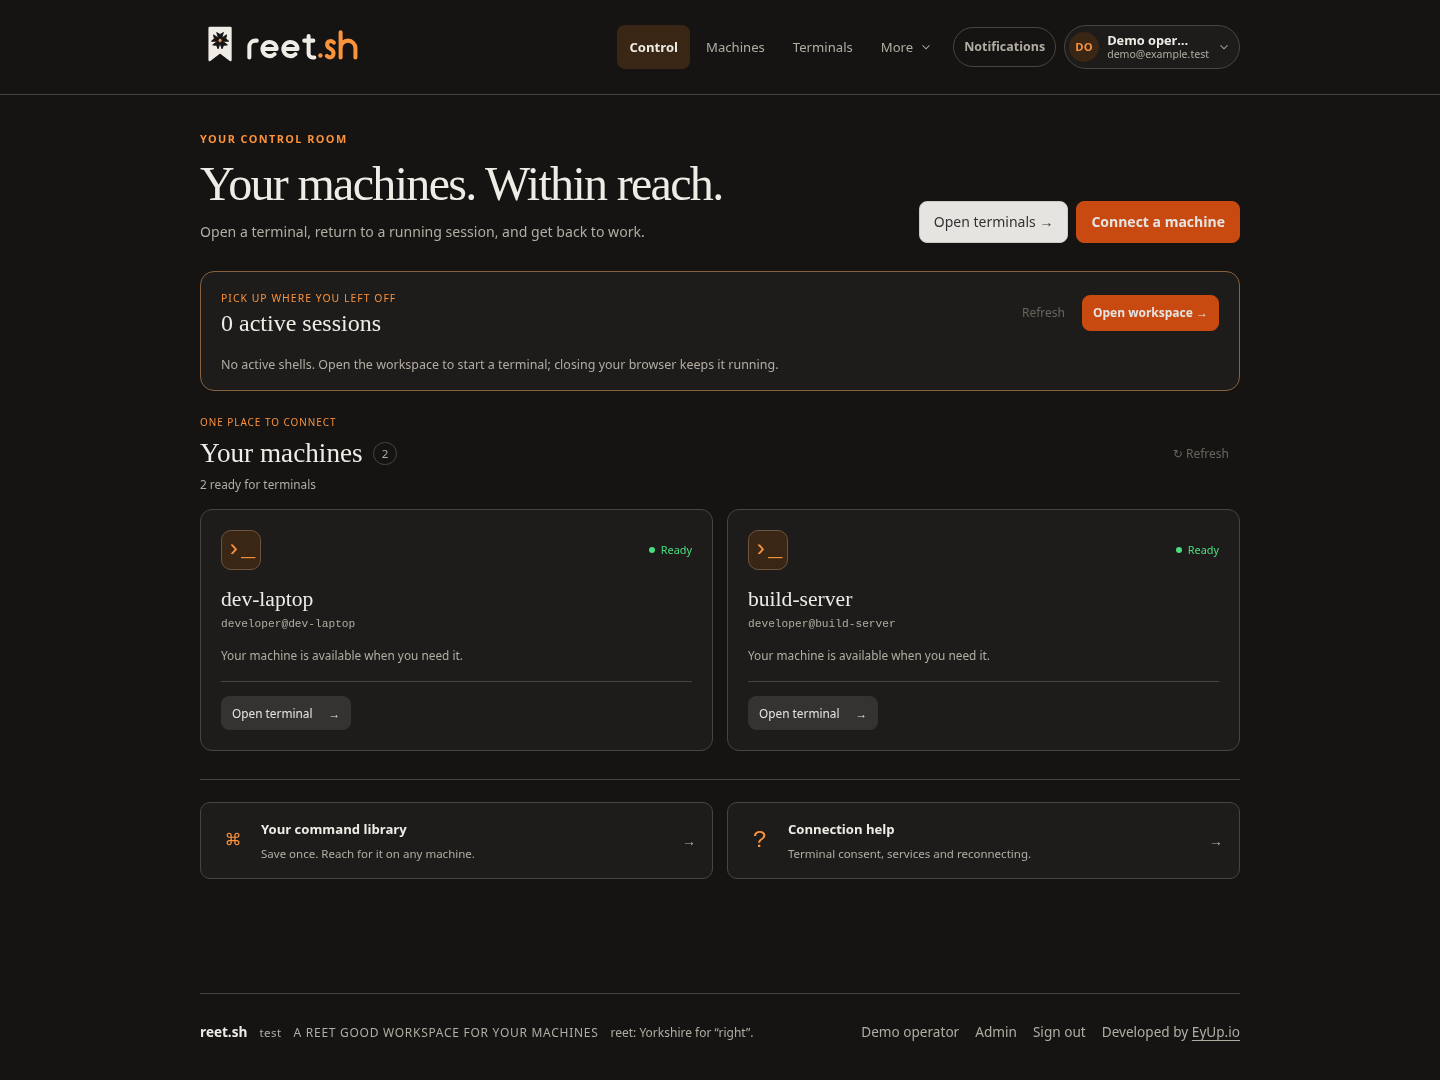
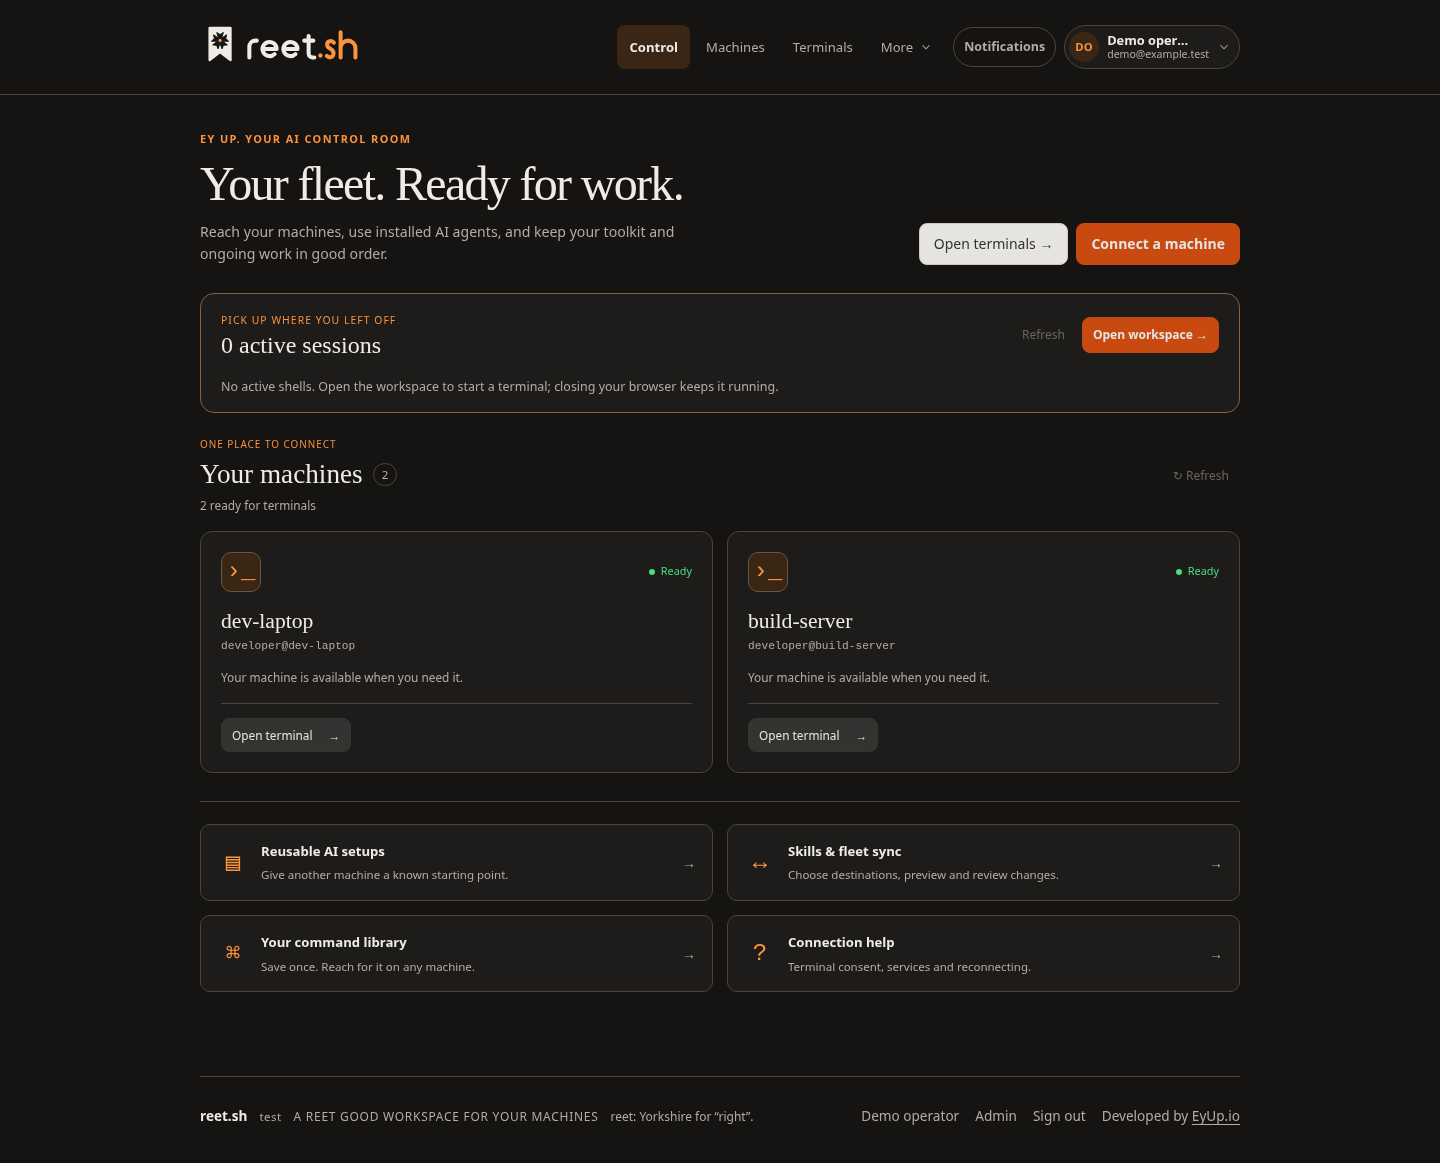
Carry the AI fleet positioning through home and setup entry points

diff --git a/web/src/lib/ControlCenter.svelte b/web/src/lib/ControlCenter.svelte
@@ -24,7 +24,7 @@
  }
  onMount(()=>{void refresh();const wake=()=>{now=Date.now();if(document.visibilityState==='visible')void refresh()};const timer=setInterval(wake,15000);document.addEventListener('visibilitychange',wake);return()=>{alive=false;abort.abort();clearInterval(timer);document.removeEventListener('visibilitychange',wake)}})
 </script>
-<PageHeader eyebrow="Your control room" title="Your machines. Within reach." lede="Open a terminal, return to a running session, and get back to work.">
+<PageHeader eyebrow="Ey up. Your AI control room" title="Your fleet. Ready for work." lede="Reach your machines, use installed AI agents, and keep your toolkit and ongoing work in good order.">
  {#snippet actions()}{#if terminalAccess}<a class="btn" href="/terminals">Open terminals →</a>{/if}{#if canWrite}<a class="btn primary" href="/machines#connect-machine">Connect a machine</a>{/if}{/snippet}
 </PageHeader>
 {#if terminalAccess}<ActiveSessions/>{/if}
@@ -43,10 +43,10 @@
  {/each}</div>
  {:else if !error}<div class="first-machine"><span class="first-mark" aria-hidden="true">›_</span><h3>Your first machine belongs here.</h3><p>Connect a laptop or server, allow terminal access locally, then open its shell from your browser.</p>{#if canWrite}<a class="btn primary" href="/machines#connect-machine">Connect your first machine</a>{/if}<button class="btn quiet" onclick={()=>helpOpen=true}>Terminal setup guide</button></div>{/if}
 </section>
-{#if terminalAccess}<section class="workspace-shortcuts" aria-label="Workspace shortcuts"><button onclick={()=>commandsOpen=true}><span class="shortcut-symbol" aria-hidden="true">⌘</span><span><strong>Your command library</strong><small>Save once. Reach for it on any machine.</small></span><b aria-hidden="true">→</b></button><button onclick={()=>helpOpen=true}><span class="shortcut-symbol" aria-hidden="true">?</span><span><strong>Connection help</strong><small>Terminal consent, services and reconnecting.</small></span><b aria-hidden="true">→</b></button></section>{/if}
+{#if terminalAccess}<section class="workspace-shortcuts" aria-label="Workspace shortcuts"><a href="/profiles"><span class="shortcut-symbol" aria-hidden="true">▤</span><span><strong>Reusable AI setups</strong><small>Give another machine a known starting point.</small></span><b aria-hidden="true">→</b></a><a href="/sync"><span class="shortcut-symbol" aria-hidden="true">↔</span><span><strong>Skills &amp; fleet sync</strong><small>Choose destinations, preview and review changes.</small></span><b aria-hidden="true">→</b></a><button onclick={()=>commandsOpen=true}><span class="shortcut-symbol" aria-hidden="true">⌘</span><span><strong>Your command library</strong><small>Save once. Reach for it on any machine.</small></span><b aria-hidden="true">→</b></button><button onclick={()=>helpOpen=true}><span class="shortcut-symbol" aria-hidden="true">?</span><span><strong>Connection help</strong><small>Terminal consent, services and reconnecting.</small></span><b aria-hidden="true">→</b></button></section>{/if}
 {#if commandsOpen}<CommandLibrary onclose={()=>commandsOpen=false}/>{/if}
 {#if helpOpen}<WorkspaceDialog title="Terminal connection setup" onclose={()=>helpOpen=false}><p class="help-copy">Allow terminal access on each machine, then open it from your workspace. A browser disconnect leaves its shells running.</p><TerminalCommandReference/><p class="help-copy">On the machine, install tmux 3.3 or newer, then run:</p><pre>reet agent terminal enable
 reet agent service install</pre><a class="btn" href="/machines#connect-machine">Connect or finish setting up a machine →</a></WorkspaceDialog>{/if}
 <style>
- .machines-section{margin:24px 0}.section-heading{display:flex;align-items:center;justify-content:space-between;gap:16px;margin-bottom:16px}.eyebrow{font-size:.62rem;letter-spacing:.1em;text-transform:uppercase;color:var(--accent);margin:0 0 7px}h2{font:500 1.7rem var(--serif);margin:0;display:flex;align-items:center;gap:10px}.count{font:500 .72rem var(--sans);padding:3px 8px;border:1px solid var(--line);border-radius:20px;color:var(--muted)}.section-heading p:not(.eyebrow){font-size:.74rem;color:var(--muted);margin:6px 0 0}.section-heading .btn{font-size:.75rem;padding:7px 10px}.machine-grid{display:grid;grid-template-columns:repeat(auto-fit,minmax(min(290px,100%),1fr));gap:14px}.machine-card{padding:20px;border:1px solid var(--line);border-radius:12px;background:var(--card);min-width:0;display:flex;flex-direction:column}.machine-card>header{display:flex;align-items:center;justify-content:space-between;gap:8px}.machine-mark{font:500 1.5rem var(--mono);color:var(--accent);background:var(--tint);border:1px solid color-mix(in srgb,var(--accent) 20%,var(--line));width:40px;height:40px;border-radius:10px;display:grid;place-content:center}.machine-status{display:flex;align-items:center;gap:6px;font-size:.68rem;color:var(--muted)}.machine-status i{height:6px;width:6px;border-radius:50%;background:var(--muted)}.machine-status.ready{color:var(--good)}.machine-status.ready i{background:var(--good)}.machine-card h3{font:500 1.35rem var(--serif);margin:17px 0 6px;overflow-wrap:anywhere}.machine-context{font:.7rem var(--mono);color:var(--muted);margin:0;display:flex;flex-wrap:wrap;gap:8px;overflow-wrap:anywhere}.machine-context>span{font:.62rem var(--sans);border:1px solid var(--line);padding:1px 5px;border-radius:3px;text-transform:uppercase}.machine-note{font-size:.74rem;line-height:1.6;color:var(--muted);margin:16px 0;flex:1}.telemetry{display:flex;gap:14px;font:.69rem var(--mono);color:var(--muted);padding:16px 0;flex-wrap:wrap;flex:1}.telemetry.old{opacity:.75}.machine-card footer{display:flex;align-items:center;justify-content:space-between;gap:10px;border-top:1px solid var(--line);padding-top:14px;margin-top:auto}.machine-card .btn{font-size:.74rem;min-height:34px;padding:7px 10px;justify-content:space-between;gap:16px}.machine-card .btn.open{background:var(--ink);border-color:var(--ink);color:var(--card)}.rtt{font:.65rem var(--mono);color:var(--muted)}.connection-error,.access-note{padding:12px;border-radius:8px;background:var(--tint);font-size:.78rem;line-height:1.6}.connection-error{color:var(--bad)}.connection-error button{border:0;background:transparent;text-decoration:underline;color:inherit;cursor:pointer}.first-machine{border:1px dashed var(--line);border-radius:12px;text-align:center;padding:36px 20px;background:var(--card)}.first-mark{font:2.5rem var(--mono);color:var(--accent)}.first-machine h3{font:500 1.7rem var(--serif);margin:14px 0 10px}.first-machine p{font-size:.85rem;line-height:1.7;color:var(--muted);max-width:58ch;margin:0 auto 20px}.first-machine .btn{margin:4px}.machine-skeleton{border:1px solid var(--line);border-radius:12px;padding:24px;background:var(--card);display:grid;gap:20px;height:220px}.machine-skeleton i{display:block;height:14px;background:var(--line);border-radius:5px}.machine-skeleton i:first-child{width:40px;height:40px}.machine-skeleton i:last-child{width:70%}.workspace-shortcuts{display:grid;grid-template-columns:1fr 1fr;gap:14px;border-top:1px solid var(--line);padding-top:22px;margin:28px 0}.workspace-shortcuts button{display:flex;align-items:center;gap:12px;padding:16px;border:1px solid var(--line);border-radius:10px;background:var(--card);color:var(--ink);text-align:left;cursor:pointer}.shortcut-symbol{font:1.5rem var(--mono);color:var(--accent);min-width:32px;text-align:center}.workspace-shortcuts strong{display:block;font-size:.82rem}.workspace-shortcuts small{display:block;font-size:.72rem;color:var(--muted);margin-top:5px}.workspace-shortcuts b{margin-left:auto;color:var(--muted);font-weight:400}.help-copy{font-size:.82rem;line-height:1.7;color:var(--muted);margin:0}pre{padding:12px;border:1px solid var(--line);border-radius:6px;background:var(--bg);font:.78rem/1.7 var(--mono);overflow:auto}@media(max-width:650px){.machine-card{padding:17px}.workspace-shortcuts{grid-template-columns:1fr}.section-heading{gap:8px}h2{font-size:1.5rem}}
+ .machines-section{margin:24px 0}.section-heading{display:flex;align-items:center;justify-content:space-between;gap:16px;margin-bottom:16px}.eyebrow{font-size:.62rem;letter-spacing:.1em;text-transform:uppercase;color:var(--accent);margin:0 0 7px}h2{font:500 1.7rem var(--serif);margin:0;display:flex;align-items:center;gap:10px}.count{font:500 .72rem var(--sans);padding:3px 8px;border:1px solid var(--line);border-radius:20px;color:var(--muted)}.section-heading p:not(.eyebrow){font-size:.74rem;color:var(--muted);margin:6px 0 0}.section-heading .btn{font-size:.75rem;padding:7px 10px}.machine-grid{display:grid;grid-template-columns:repeat(auto-fit,minmax(min(290px,100%),1fr));gap:14px}.machine-card{padding:20px;border:1px solid var(--line);border-radius:12px;background:var(--card);min-width:0;display:flex;flex-direction:column}.machine-card>header{display:flex;align-items:center;justify-content:space-between;gap:8px}.machine-mark{font:500 1.5rem var(--mono);color:var(--accent);background:var(--tint);border:1px solid color-mix(in srgb,var(--accent) 20%,var(--line));width:40px;height:40px;border-radius:10px;display:grid;place-content:center}.machine-status{display:flex;align-items:center;gap:6px;font-size:.68rem;color:var(--muted)}.machine-status i{height:6px;width:6px;border-radius:50%;background:var(--muted)}.machine-status.ready{color:var(--good)}.machine-status.ready i{background:var(--good)}.machine-card h3{font:500 1.35rem var(--serif);margin:17px 0 6px;overflow-wrap:anywhere}.machine-context{font:.7rem var(--mono);color:var(--muted);margin:0;display:flex;flex-wrap:wrap;gap:8px;overflow-wrap:anywhere}.machine-context>span{font:.62rem var(--sans);border:1px solid var(--line);padding:1px 5px;border-radius:3px;text-transform:uppercase}.machine-note{font-size:.74rem;line-height:1.6;color:var(--muted);margin:16px 0;flex:1}.telemetry{display:flex;gap:14px;font:.69rem var(--mono);color:var(--muted);padding:16px 0;flex-wrap:wrap;flex:1}.telemetry.old{opacity:.75}.machine-card footer{display:flex;align-items:center;justify-content:space-between;gap:10px;border-top:1px solid var(--line);padding-top:14px;margin-top:auto}.machine-card .btn{font-size:.74rem;min-height:34px;padding:7px 10px;justify-content:space-between;gap:16px}.machine-card .btn.open{background:var(--ink);border-color:var(--ink);color:var(--card)}.rtt{font:.65rem var(--mono);color:var(--muted)}.connection-error,.access-note{padding:12px;border-radius:8px;background:var(--tint);font-size:.78rem;line-height:1.6}.connection-error{color:var(--bad)}.connection-error button{border:0;background:transparent;text-decoration:underline;color:inherit;cursor:pointer}.first-machine{border:1px dashed var(--line);border-radius:12px;text-align:center;padding:36px 20px;background:var(--card)}.first-mark{font:2.5rem var(--mono);color:var(--accent)}.first-machine h3{font:500 1.7rem var(--serif);margin:14px 0 10px}.first-machine p{font-size:.85rem;line-height:1.7;color:var(--muted);max-width:58ch;margin:0 auto 20px}.first-machine .btn{margin:4px}.machine-skeleton{border:1px solid var(--line);border-radius:12px;padding:24px;background:var(--card);display:grid;gap:20px;height:220px}.machine-skeleton i{display:block;height:14px;background:var(--line);border-radius:5px}.machine-skeleton i:first-child{width:40px;height:40px}.machine-skeleton i:last-child{width:70%}.workspace-shortcuts{display:grid;grid-template-columns:1fr 1fr;gap:14px;border-top:1px solid var(--line);padding-top:22px;margin:28px 0}.workspace-shortcuts button,.workspace-shortcuts>a{display:flex;align-items:center;gap:12px;padding:16px;border:1px solid var(--line);border-radius:10px;background:var(--card);color:var(--ink);text-align:left;cursor:pointer;text-decoration:none}.shortcut-symbol{font:1.5rem var(--mono);color:var(--accent);min-width:32px;text-align:center}.workspace-shortcuts strong{display:block;font-size:.82rem}.workspace-shortcuts small{display:block;font-size:.72rem;color:var(--muted);margin-top:5px}.workspace-shortcuts b{margin-left:auto;color:var(--muted);font-weight:400}.help-copy{font-size:.82rem;line-height:1.7;color:var(--muted);margin:0}pre{padding:12px;border:1px solid var(--line);border-radius:6px;background:var(--bg);font:.78rem/1.7 var(--mono);overflow:auto}@media(max-width:650px){.machine-card{padding:17px}.workspace-shortcuts{grid-template-columns:1fr}.section-heading{gap:8px}h2{font-size:1.5rem}}
 </style>

diff --git a/web/src/lib/Footer.svelte b/web/src/lib/Footer.svelte
@@ -25,7 +25,7 @@
       {#if build}
         <span class="version" title={build.commit !== 'unknown' ? `commit ${build.commit}` : undefined}>{build.version}</span>
       {/if}
-      <span class="descriptor">A reet good workspace for your machines</span>
+      <span class="descriptor">A reet good home for your AI fleet</span>
       <span class="meaning">reet: Yorkshire for “right”.</span>
     </span>
     <span class="end">

diff --git a/handoff.md b/handoff.md
@@ -5,7 +5,7 @@
 This is the current implementation baseline **and** the continuation plan. Current
 capabilities below are implemented; unchecked T/S/A/W/L tasks are future work.
 **T1 and T2 are merged through PRs #140/#141.** Review the evidence and publication
-state below. **T3 single-session archival is merged through PR #142. T4 terminal polish is implemented in `feat/terminal-workspace-polish`, pending PR verification and merge.
+state below. **T3 single-session archival is merged through PR #142. T4 terminal polish is merged through PR #145 after all five workflows passed.
 T5 initial-install/enrollment/upgrade terminal setup is next.** S1 is merged through PR #139; do not repeat
 it or start S2 ahead of the remaining terminal priorities. Do not start the whole roadmap.
 Historical delivery evidence remains in
@@ -37,6 +37,15 @@ terminal connection wizard as a core setup step. A reported missing-tmux failure
 must have actionable diagnosis/setup guidance. These requests take priority over
 remaining skill/content work and bulk history cleanup.
 
+Product scope correction, 24 October: reet is an **AI fleet control room**, covering
+machines, installed agent usage, reusable AI setups, skills, reviewed sync and
+ongoing work. Terminals remain core, but do not narrow the product to a remote-shell
+app. Preserve the Yorkshire welcome and warm/bookish brand. Public copy must label
+agent installation/update/removal, richer run orchestration and fleet-wide agent
+configuration as planned until the corresponding roadmap stages actually ship.
+The entry-page illustration and home toolkit links should convey this breadth.
+See `docs/voice-and-copy.md`; keep the new scope when implementing T5 and S/A/W/L.
+
 ### Public entry points — terminal-first redesign
 
 The signed-out `/` and `/welcome` explain machines, persistent terminals and
@@ -57,7 +66,7 @@ web/tests/public-workspace.e2e.mjs`; optionally set `REET_UI_SCREENSHOTS` to ret
 screenshots. Keep public claims limited to shipped functionality when adding
 terminal appearance, account command libraries or future agent maintenance.
 
-### T4 [x] Modern terminal interaction, appearance and saved commands — verify PR before merging
+### T4 [x] Modern terminal interaction, appearance and saved commands — merged through PR #145
 
 1. Reproduce ordinary-height, bottom-of-screen input after several screens of
    output; verify host `stty size` matches xterm rows/columns before and after

diff --git a/README.md b/README.md
@@ -5,9 +5,9 @@
   <img src="brand/logo/horizontal-color-light.svg" alt="reet.sh" width="340">
 </picture>
 
-### Your machines. Your terminals. One workspace.
+### Ey up. Your AI fleet, in good order.
 
-Connect laptops and servers, open remote terminals, and return to persistent shell sessions. Use the tools and agents already installed on each machine.<br>
+A self-hosted control room for your machine fleet, AI agents, skills and reusable setups. Connect your machines, use installed agents, review what gets synced, and return to ongoing work.<br>
 One Go binary. One SQLite file. No telemetry.
 
 [![CI](https://github.com/eyupio/reet.sh/actions/workflows/image.yml/badge.svg)](https://github.com/eyupio/reet.sh/actions/workflows/image.yml)
@@ -30,7 +30,7 @@ One Go binary. One SQLite file. No telemetry.
 
 ## Why
 
-Working across laptops and servers should not mean losing track of your shells or starting over when a browser closes. Keep your machines and ongoing sessions within reach in a workspace you host yourself.
+Your AI workspace spans machines, agents, skills, configuration and ongoing work. Keep the whole lot in good order in a control room you host yourself. Browser terminals put the agents already installed on each machine within reach; reusable setups and reviewed sync help bring the fleet together.
 
 reet.sh is a self-hosted workspace for the machines where you use AI agents. Open a browser terminal, continue ongoing shells, and work with agents already installed on each connected machine. Its supporting skill library lets you choose what goes to one machine or all machines, bring discoveries back, and review sync changes before applying them.
 
